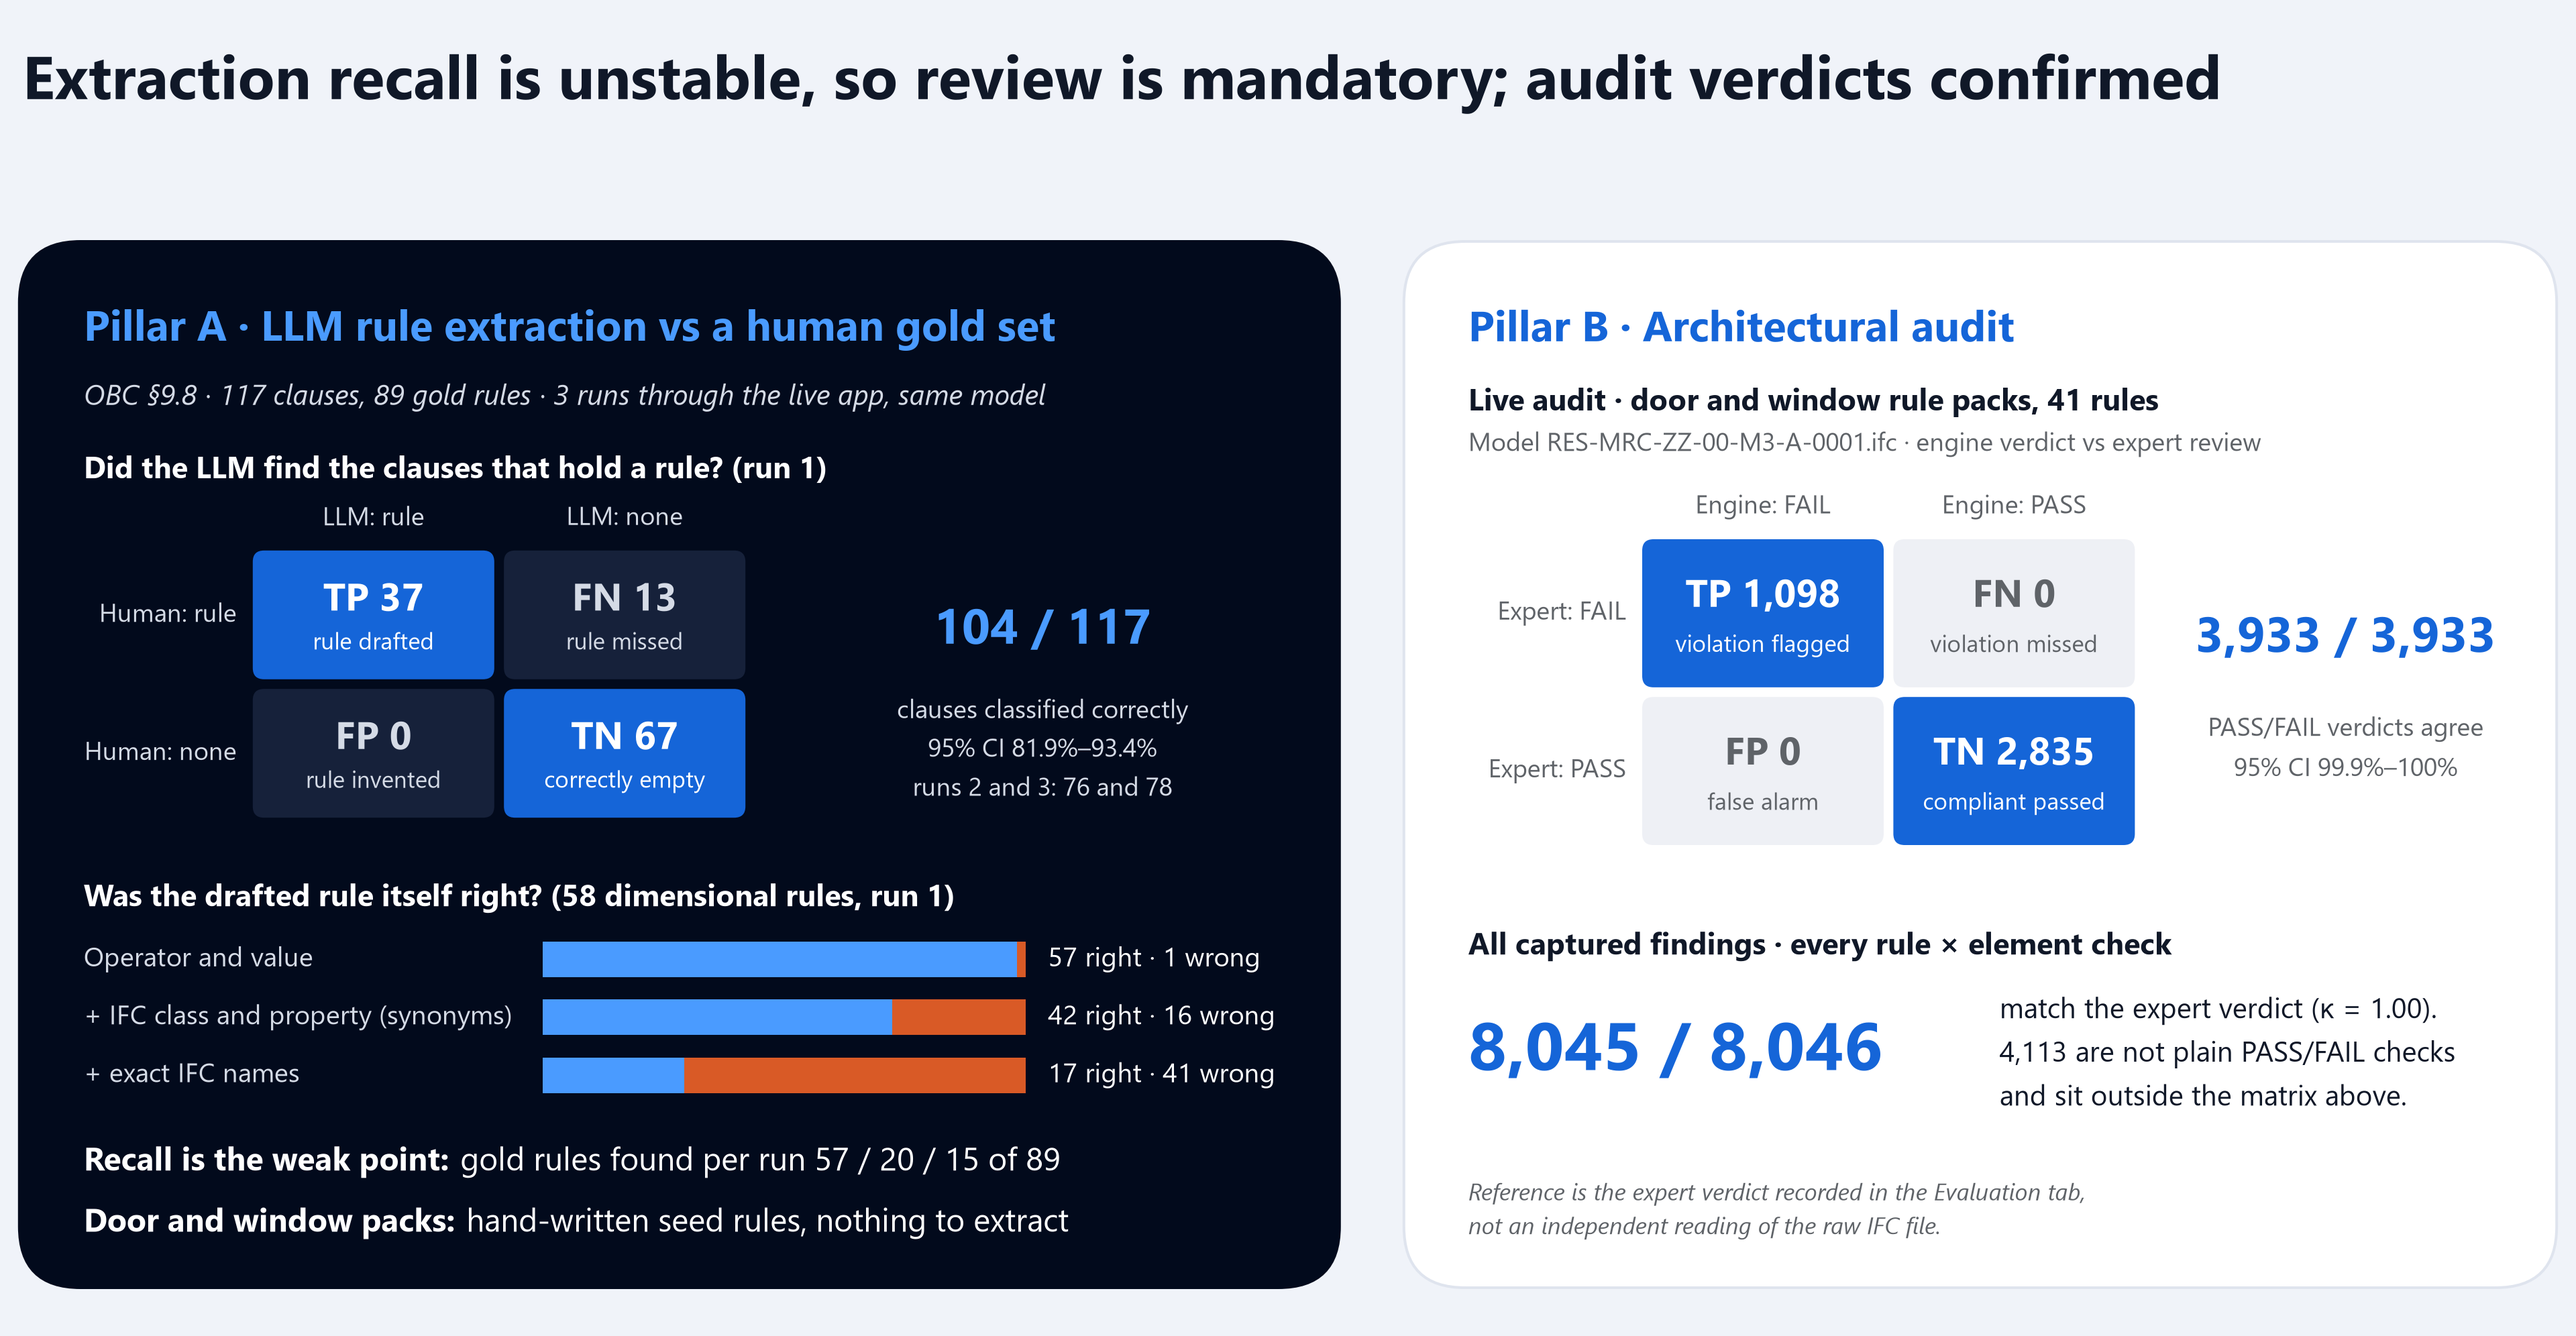
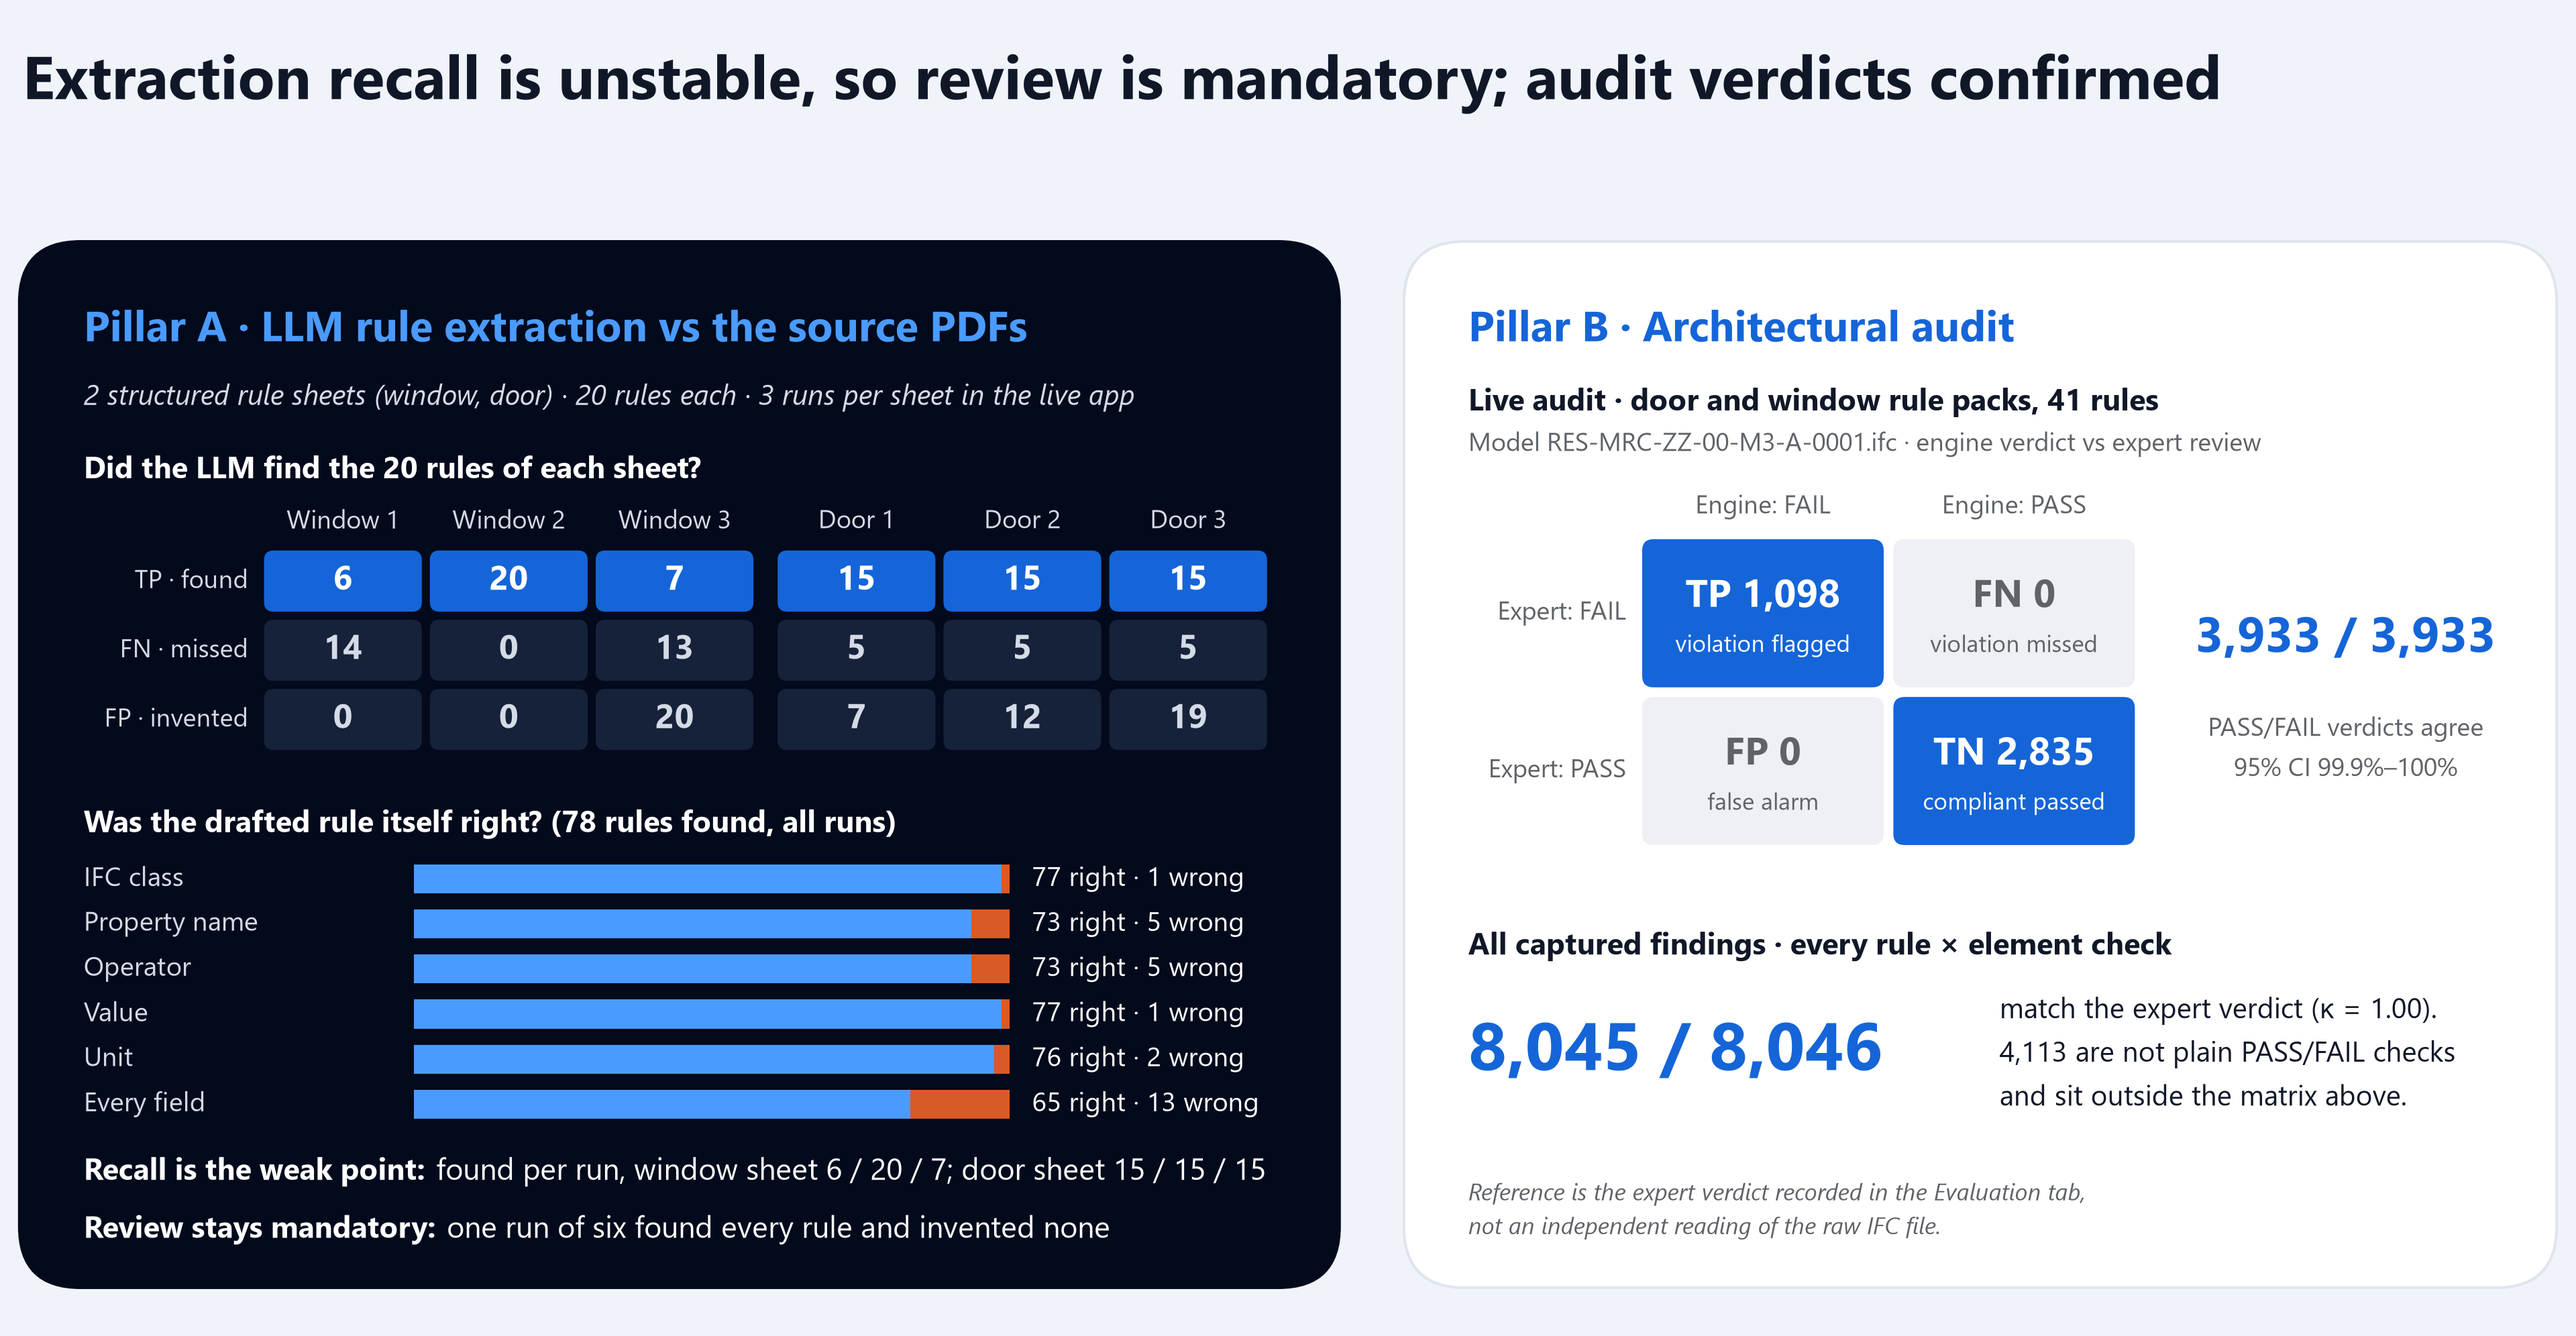
Two-pillar summary figure: Pillar A from the door and window rule-sheet extraction runs

Changed region(s): [[0.0312, 0.3424, 0.5, 0.9337], [0.0312, 0.2179, 0.4375, 0.3112]]

diff --git a/eval/plot_pillars_summary.py b/eval/plot_pillars_summary.py
@@ -1,6 +1,7 @@
 """Two-card results summary: Pillar A (rule extraction) beside Pillar B (architectural audit).
 
-Pillar A reads the scored e2e extraction runs 1-3 (eval/results/e2e/*/confusion.json).
+Pillar A reads the per-run counts of the door and window rule-sheet extractions
+(eval/fixtures/mvp_pdf_extraction_runs.json, from eval/score_mvp_pdf_extraction.py).
 Pillar B reads a tool-vs-expert matrix from BIM-Guard's Evaluation page: either a
 saved GET /api/evaluation/matrix response or the transcribed fixture used by default.
 
@@ -25,8 +26,6 @@ if str(EVAL_DIR) not in sys.path:
 
 from stats_util import confusion_matrix_metrics  # noqa: E402
 
-E2E = EVAL_DIR / "results" / "e2e"
-RUNS = [("run1_browser", "Run 1"), ("run2_playwright", "Run 2"), ("run3_variance_a", "Run 3")]
 
 PAGE, NAVY, WHITE = "#f0f3f9", "#020a1c", "#ffffff"
 INK, MUTED, PALE = "#101828", "#5f6368", "#d5dbe6"
@@ -65,54 +64,52 @@ def _matrix(ax, gx, gy, cells, cols, rows, on, off, head, cw=150, ch=92, gap=6):
     return gx + 2 * cw + gap
 
 
-def load_extraction() -> list[dict]:
-    return [json.loads((E2E / folder / "confusion.json").read_text(encoding="utf-8")) for folder, _ in RUNS]
-
-
-def draw_extraction(ax, runs: list[dict], x0: float, x1: float, y0: float, y1: float) -> None:
+def draw_extraction(ax, d: dict, x0: float, x1: float, y0: float, y1: float) -> None:
     _card(ax, x0, x1, y0, y1, NAVY, NAVY)
-    first = runs[0]
-    clause = first["clause_level"]["metrics"]
-    cm = clause["confusion_matrix"]
+    runs, gold = d["runs"], d["gold_rules"]
+    sheets = list(dict.fromkeys(r["sheet"] for r in runs))
     x = x0 + 40
-    ax.text(x, y0 + 55, "Pillar A · LLM rule extraction vs a human gold set", fontsize=19, fontweight="bold",
+    ax.text(x, y0 + 55, "Pillar A · LLM rule extraction vs the source PDFs", fontsize=19, fontweight="bold",
             color=BLUE_ON_NAVY, va="center")
-    ax.text(x, y0 + 97, f"OBC §9.8 · {cm['total']} clauses, {first['human_rules']} gold rules · {len(runs)} runs "
-            "through the live app, same model", fontsize=12.5, style="italic", color=PALE, va="center")
+    ax.text(x, y0 + 97, f"{len(sheets)} structured rule sheets ({', '.join(sheets)}) · {gold} rules each · "
+            f"{len(runs) // len(sheets)} runs per sheet in the live app", fontsize=12.5, style="italic", color=PALE,
+            va="center")
 
-    ax.text(x, y0 + 142, "Did the LLM find the clauses that hold a rule? (run 1)", fontsize=13.5,
-            fontweight="bold", color=WHITE, va="center")
-    cells = [[("TP", cm["tp"], "rule drafted"), ("FN", cm["fn"], "rule missed")],
-             [("FP", cm["fp"], "rule invented"), ("TN", cm["tn"], "correctly empty")]]
-    gy = y0 + 192
-    edge = _matrix(ax, x + 105, gy, cells, ("LLM: rule", "LLM: none"), ("Human: rule", "Human: none"),
-                   (BLUE, WHITE), ("#16213a", PALE), PALE, ch=80)
-    side = (edge + x1) / 2
-    others = " and ".join(str(r["clause_level"]["tp"] + r["clause_level"]["tn"]) for r in runs[1:])
-    ax.text(side, gy + 50, f"{cm['tp'] + cm['tn']} / {cm['total']}", fontsize=22, fontweight="bold",
-            color=BLUE_ON_NAVY, ha="center", va="center")
-    for dy, line in ((100, "clauses classified correctly"),
-                     (124, f"95% CI {clause['accuracy']['ci_lower']:.1%}–{clause['accuracy']['ci_upper']:.1%}"),
-                     (148, f"runs 2 and 3: {others}")):
-        ax.text(side, gy + dy, line, fontsize=11.5, color=PALE, ha="center", va="center")
+    ax.text(x, y0 + 142, f"Did the LLM find the {gold} rules of each sheet?", fontsize=13.5, fontweight="bold",
+            color=WHITE, va="center")
+    gx, gy, cw, ch, gap = x + 112, y0 + 192, 98, 38, 5
+    rows = (("TP · found", lambda r: r["correct"], True), ("FN · missed", lambda r: r["missed"], False),
+            ("FP · invented", lambda r: r["drafts"] - r.get("duplicates", 0) - r["correct"], False))
+    for j, run in enumerate(runs):
+        cx = gx + j * (cw + gap) + (10 if run["sheet"] != sheets[0] else 0)
+        ax.text(cx + cw / 2, gy - 18, run["label"], fontsize=11.5, color=PALE, ha="center", va="center")
+        for i, (_, count, on) in enumerate(rows):
+            ax.add_patch(FancyBboxPatch((cx, gy + i * (ch + gap)), cw, ch, boxstyle="round,pad=0,rounding_size=6",
+                                        facecolor=BLUE if on else "#16213a", edgecolor="none"))
+            ax.text(cx + cw / 2, gy + i * (ch + gap) + ch / 2, str(count(run)), fontsize=15, fontweight="bold",
+                    color=WHITE if on else PALE, ha="center", va="center")
+    for i, (label, _, _) in enumerate(rows):
+        ax.text(gx - 10, gy + i * (ch + gap) + ch / 2, label, fontsize=11.5, color=PALE, ha="right", va="center")
 
-    drafted = first["extracted_rules"]
-    ax.text(x, y0 + 408, f"Was the drafted rule itself right? ({drafted} dimensional rules, run 1)", fontsize=13.5,
+    found = sum(r["correct"] for r in runs)
+    ax.text(x, y0 + 362, f"Was the drafted rule itself right? ({found} rules found, all runs)", fontsize=13.5,
             fontweight="bold", color=WHITE, va="center")
-    left, length = x + 285, 300
-    for i, (label, mode) in enumerate((("Operator and value", "lenient"),
-                                       ("+ IFC class and property (synonyms)", "normalized"),
-                                       ("+ exact IFC names", "strict"))):
-        right = first["rule_level"][mode]["tp"]
-        y = y0 + 446 + 36 * i
+    left, length = x + 205, 370
+    bars = [(label, sum(r["fields_right"][key] for r in runs))
+            for label, key in (("IFC class", "target"), ("Property name", "property"), ("Operator", "operator"),
+                               ("Value", "value"), ("Unit", "unit"))]
+    bars.append(("Every field", sum(r["all_fields_right"] for r in runs)))
+    for i, (label, right) in enumerate(bars):
+        y = y0 + 396 + 28 * i
         ax.text(x, y, label, fontsize=12, color=PALE, va="center")
-        ax.add_patch(Rectangle((left, y - 11), length, 22, facecolor=ORANGE, edgecolor="none"))
-        ax.add_patch(Rectangle((left, y - 11), length * right / drafted, 22, facecolor=BLUE_ON_NAVY, edgecolor="none"))
-        ax.text(left + length + 14, y, f"{right} right · {drafted - right} wrong", fontsize=12, color=WHITE, va="center")
+        ax.add_patch(Rectangle((left, y - 9), length, 18, facecolor=ORANGE, edgecolor="none"))
+        ax.add_patch(Rectangle((left, y - 9), length * right / found, 18, facecolor=BLUE_ON_NAVY, edgecolor="none"))
+        ax.text(left + length + 14, y, f"{right} right · {found - right} wrong", fontsize=12, color=WHITE, va="center")
 
-    found = " / ".join(str(r["rule_level"]["lenient"]["tp"]) for r in runs)
-    _lead(ax, x, y0 + 572, "Recall is the weak point:", f"gold rules found per run {found} of {first['human_rules']}", WHITE)
-    _lead(ax, x, y0 + 610, "Door and window packs:", "hand-written seed rules, nothing to extract", WHITE)
+    per_sheet = "; ".join(f"{s} sheet " + " / ".join(str(r["correct"]) for r in runs if r["sheet"] == s) for s in sheets)
+    _lead(ax, x, y0 + 578, "Recall is the weak point:", f"found per run, {per_sheet}", WHITE, size=13.5)
+    _lead(ax, x, y0 + 614, "Review stays mandatory:", "one run of six found every rule and invented none", WHITE,
+          size=13.5)
 
 
 def draw_audit(ax, m: dict, x0: float, x1: float, y0: float, y1: float) -> None:
@@ -169,12 +166,14 @@ def main() -> int:
     ap = argparse.ArgumentParser()
     ap.add_argument("--matrix", type=Path, default=EVAL_DIR / "fixtures" / "evaluation_matrix_res_mrc_2026-10-08.json",
                     help="tool-vs-expert matrix JSON (GET /api/evaluation/matrix shape)")
+    ap.add_argument("--extraction", type=Path, default=EVAL_DIR / "fixtures" / "mvp_pdf_extraction_runs.json",
+                    help="per-run extraction counts")
     ap.add_argument("--title", default="Extraction recall is unstable, so review is mandatory; audit verdicts confirmed")
     ap.add_argument("-o", "--out", type=Path,
                     default=EVAL_DIR.parent / "docs" / "publication" / "figures" / "fig_pillars_summary.png")
     a = ap.parse_args()
 
-    extraction = load_extraction()
+    extraction = json.loads(a.extraction.read_text(encoding="utf-8"))
     matrix = json.loads(a.matrix.read_text(encoding="utf-8"))
 
     fig = plt.figure(figsize=(W / 100, H / 100), dpi=240)
@@ -189,8 +188,10 @@ def main() -> int:
     fig.savefig(a.out, facecolor=PAGE)
     plt.close(fig)
 
-    for name, cm in (("extraction, run 1 clauses", extraction[0]["clause_level"]), ("audit", matrix["confusion_matrix"])):
-        print(f"{name:26s} TP {cm['tp']}  FN {cm['fn']}  FP {cm['fp']}  TN {cm['tn']}")
+    for run in extraction["runs"]:
+        print(f"{run['label']:10s} found {run['correct']:>2}  missed {run['missed']:>2}  drafts {run['drafts']}")
+    cm = matrix["confusion_matrix"]
+    print(f"audit      TP {cm['tp']}  FN {cm['fn']}  FP {cm['fp']}  TN {cm['tn']}")
     print(a.out)
     return 0
 
